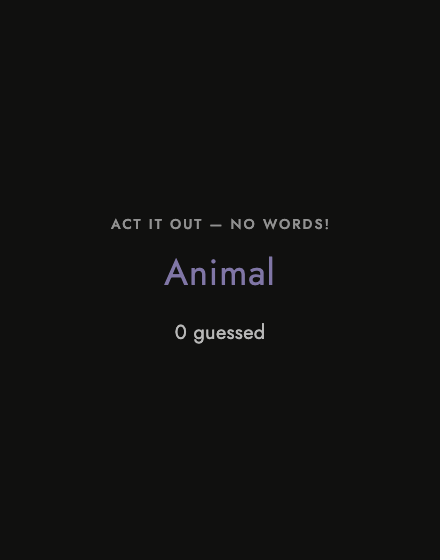
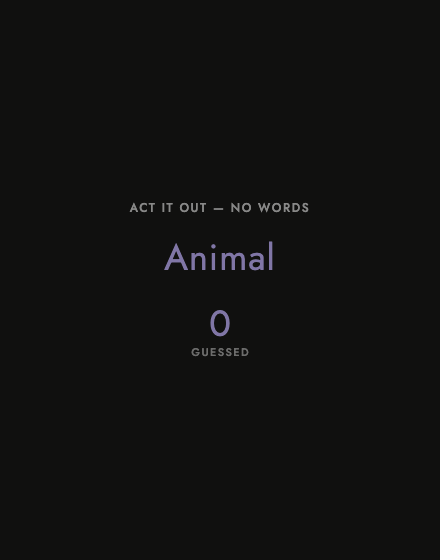
feat(games): route charades + picker through GameStage.frame (cohesion lever 3)
The last two hand-rolled hero stages now use the shared frame (eyebrow +
hero + body), so every non-board game reads with the identical scaffold:
- Charades room stage: 'Act it out' eyebrow + category hero (accent) +
  the shared GameStage.counter ('N guessed'). Secret stage: 'Act this
  out' eyebrow + word hero. Dropped the hand-rolled caps labels.
- Picker: "Who's next?" eyebrow + the spun-name hero. Dropped the
  decorative emoji (tofu in goldens; no other stage has an emoji hero).

Closes the 3-lever cohesion pass (accents - full-bleed - frame). Every
game now shares the atoms AND the scaffold; only the card boards + grids
stay structurally distinct by design. analyze clean; goldens re-rendered.

Changed region(s): [[0.2955, 0.3643, 0.7386, 0.5161], [0.3841, 0.5464, 0.6205, 0.6375], [0.2364, 0.3946, 0.2955, 0.425]]

diff --git a/lib/features/games/games/charades_game.dart b/lib/features/games/games/charades_game.dart
@@ -1,5 +1,6 @@
 import 'package:differentworld/features/activity_runtime/content_bank.dart';
 import 'package:differentworld/features/games/game.dart';
+import 'package:differentworld/features/games/game_stage.dart';
 import 'package:flutter/material.dart';
 
 /// Charades on the unified game framework (docs/GAMES.md, the three-device
@@ -123,35 +124,27 @@ class CharadesGame extends GameDefinition<CharadesState> {
   // The ROOM (presenter) — category + score, never the word.
   @override
   Widget buildStage(BuildContext context, CharadesState s) {
-    final theme = Theme.of(context);
     if (s.done) return _wrap(context, s);
-    return Center(
-      child: Column(
-        mainAxisSize: MainAxisSize.min,
-        children: [
-          const Text(
-            'ACT IT OUT — NO WORDS!',
-            style: TextStyle(
-              color: Colors.white54,
-              fontWeight: FontWeight.w500,
-              letterSpacing: 2,
-            ),
-          ),
-          const SizedBox(height: 16),
-          Text(
-            s.category,
-            textAlign: TextAlign.center,
-            style: theme.textTheme.displaySmall?.copyWith(
-              color: vibe.accent,
-              fontWeight: FontWeight.w400,
-            ),
-          ),
-          const SizedBox(height: 24),
-          Text(
-            '${s.found} guessed',
-            style: const TextStyle(color: Colors.white70, fontSize: 20),
-          ),
-        ],
+    final theme = Theme.of(context);
+    return GameStage.frame(
+      context,
+      eyebrow: 'Act it out — no words',
+      hero: Text(
+        s.category,
+        textAlign: TextAlign.center,
+        style: theme.textTheme.displaySmall?.copyWith(
+          color: vibe.accent,
+          fontWeight: FontWeight.w400,
+        ),
+      ),
+      body: Padding(
+        padding: const EdgeInsets.only(top: 24),
+        child: GameStage.counter(
+          context,
+          value: '${s.found}',
+          caption: 'guessed',
+          accent: vibe.accent,
+        ),
       ),
     );
   }
@@ -159,38 +152,17 @@ class CharadesGame extends GameDefinition<CharadesState> {
   // The ACTOR + the TEACHER — the secret word.
   @override
   Widget buildSecretStage(BuildContext context, CharadesState state) {
-    final theme = Theme.of(context);
     if (state.done) return _wrap(context, state);
-    return Center(
-      child: Padding(
-        padding: const EdgeInsets.all(24),
-        child: Column(
-          mainAxisSize: MainAxisSize.min,
-          children: [
-            const Text(
-              'ACT THIS OUT — NO TALKING!',
-              textAlign: TextAlign.center,
-              style: TextStyle(
-                color: Colors.white54,
-                fontWeight: FontWeight.w500,
-                letterSpacing: 1.5,
-              ),
-            ),
-            const SizedBox(height: 20),
-            Text(
-              state.word,
-              textAlign: TextAlign.center,
-              style: theme.textTheme.displaySmall?.copyWith(
-                color: Colors.white,
-                fontWeight: FontWeight.w400,
-              ),
-            ),
-            const SizedBox(height: 12),
-            Text(
-              "(${state.category} · the room can't see this)",
-              style: const TextStyle(color: Colors.white38),
-            ),
-          ],
+    return GameStage.frame(
+      context,
+      eyebrow: 'Act this out — no talking',
+      hero: GameStage.hero(context, state.word),
+      body: Padding(
+        padding: const EdgeInsets.only(top: 12),
+        child: Text(
+          "(${state.category} · the room can't see this)",
+          textAlign: TextAlign.center,
+          style: const TextStyle(color: Colors.white38),
         ),
       ),
     );

diff --git a/lib/features/games/games/picker_game.dart b/lib/features/games/games/picker_game.dart
@@ -2,6 +2,7 @@ import 'dart:math';
 
 import 'package:differentworld/features/activity_runtime/content_bank.dart';
 import 'package:differentworld/features/games/game.dart';
+import 'package:differentworld/features/games/game_stage.dart';
 import 'package:flutter/material.dart';
 
 /// Spotlight — a DATA-driven presentable (docs/VISION.md #18). Fair turns:
@@ -108,41 +109,19 @@ class PickerGame extends GameDefinition<PickerState> {
         ),
       );
     }
-    return Center(
-      child: Padding(
-        padding: const EdgeInsets.all(24),
-        child: Column(
-          mainAxisAlignment: MainAxisAlignment.center,
-          mainAxisSize: MainAxisSize.min,
-          children: [
-            Text(
-              s.spun ? '🎉' : '🎯',
-              style: const TextStyle(fontSize: 72),
-            ),
-            const SizedBox(height: 8),
-            Text(
-              s.spun ? "You're up!" : "Who's next?",
-              style: TextStyle(
-                color: Colors.white.withValues(alpha: 0.6),
-                fontWeight: FontWeight.w500,
-                letterSpacing: 2,
-                fontSize: 16,
-              ),
-            ),
-            const SizedBox(height: 20),
-            AnimatedSwitcher(
-              duration: const Duration(milliseconds: 200),
-              child: Text(
-                s.spun ? s.current : 'Tap Spin',
-                key: ValueKey(s.spun ? s.current : '_prompt'),
-                textAlign: TextAlign.center,
-                style: theme.textTheme.displaySmall?.copyWith(
-                  color: s.spun ? vibe.accent : Colors.white24,
-                  fontWeight: FontWeight.w400,
-                ),
-              ),
-            ),
-          ],
+    return GameStage.frame(
+      context,
+      eyebrow: s.spun ? "You're up!" : "Who's next?",
+      hero: AnimatedSwitcher(
+        duration: const Duration(milliseconds: 200),
+        child: Text(
+          s.spun ? s.current : 'Tap Spin',
+          key: ValueKey(s.spun ? s.current : '_prompt'),
+          textAlign: TextAlign.center,
+          style: theme.textTheme.displaySmall?.copyWith(
+            color: s.spun ? vibe.accent : Colors.white24,
+            fontWeight: FontWeight.w400,
+          ),
         ),
       ),
     );
